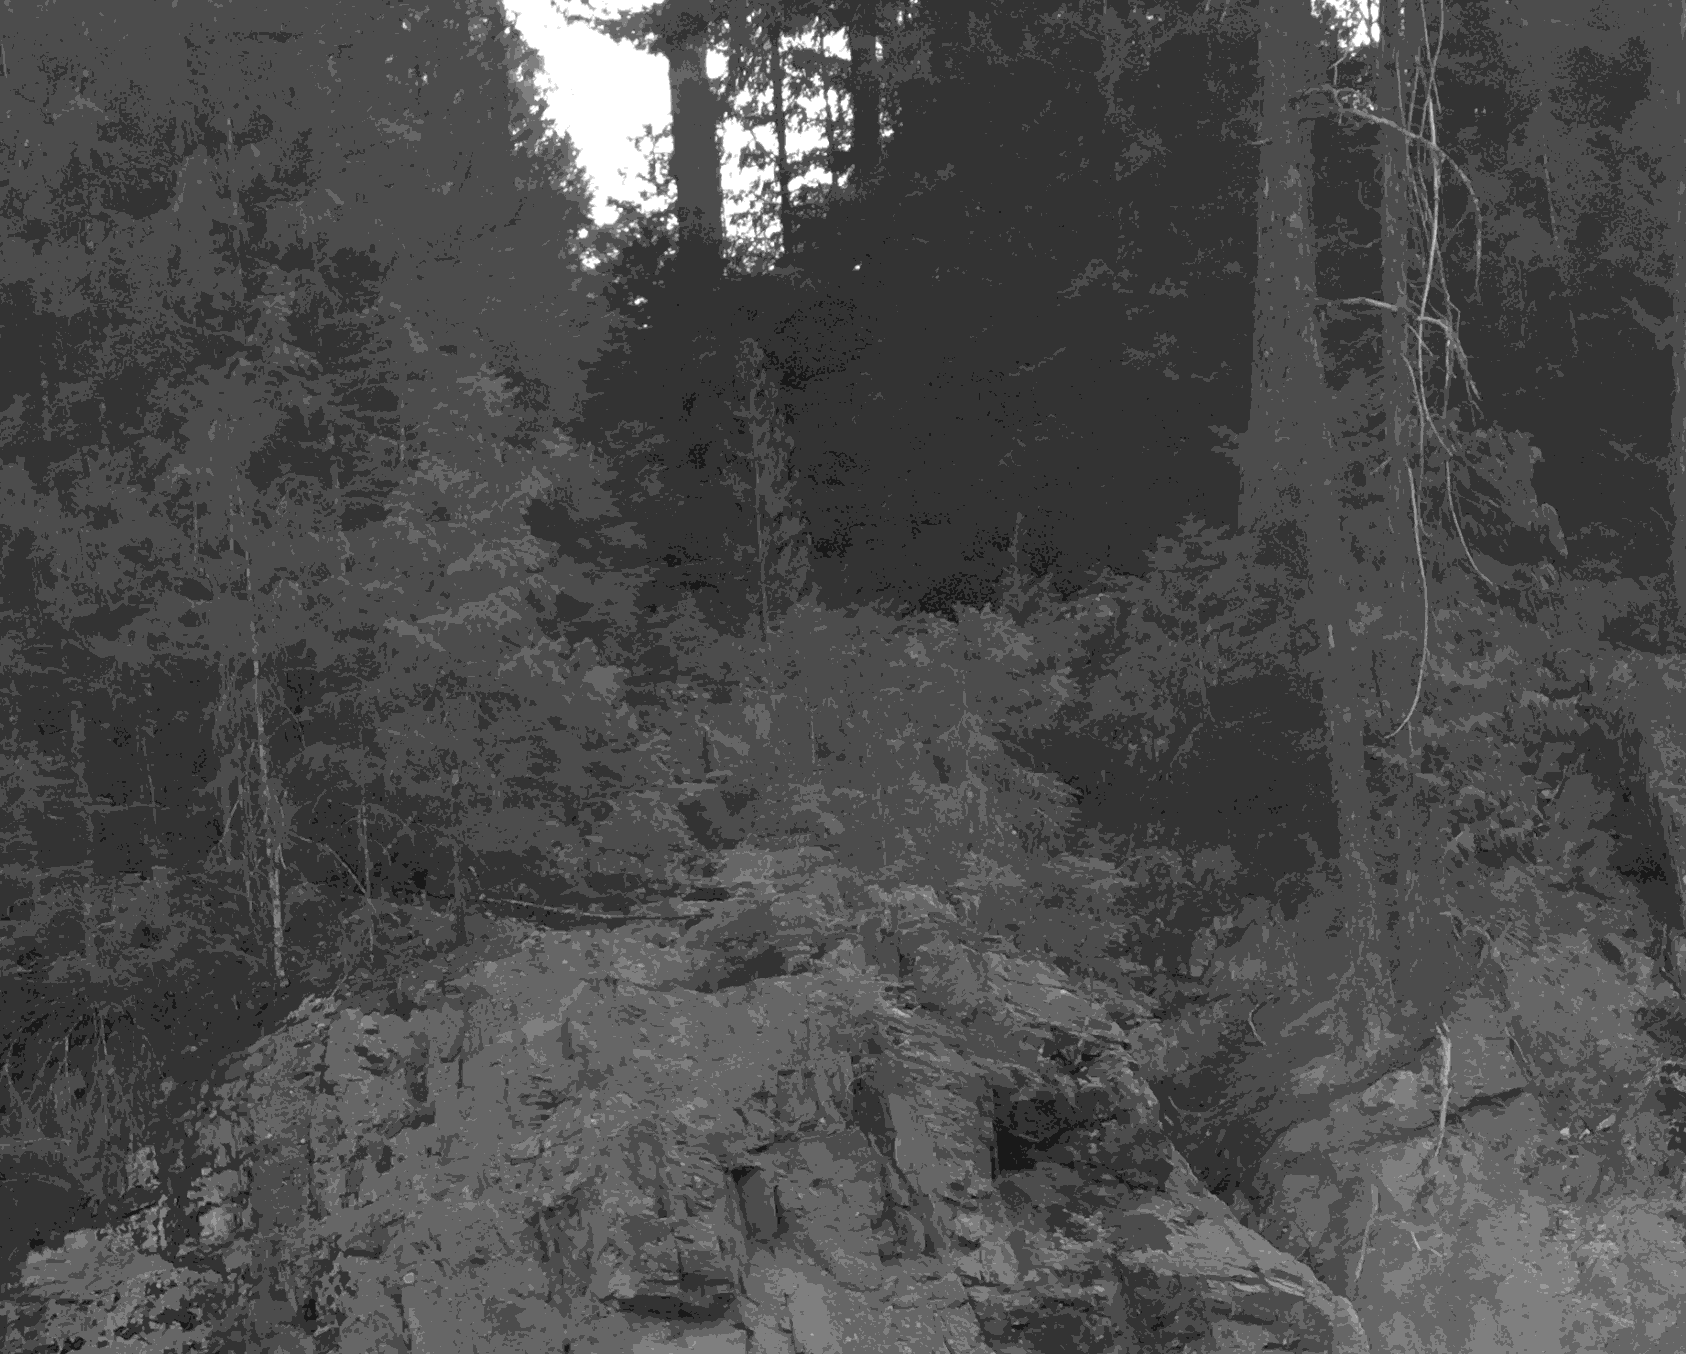
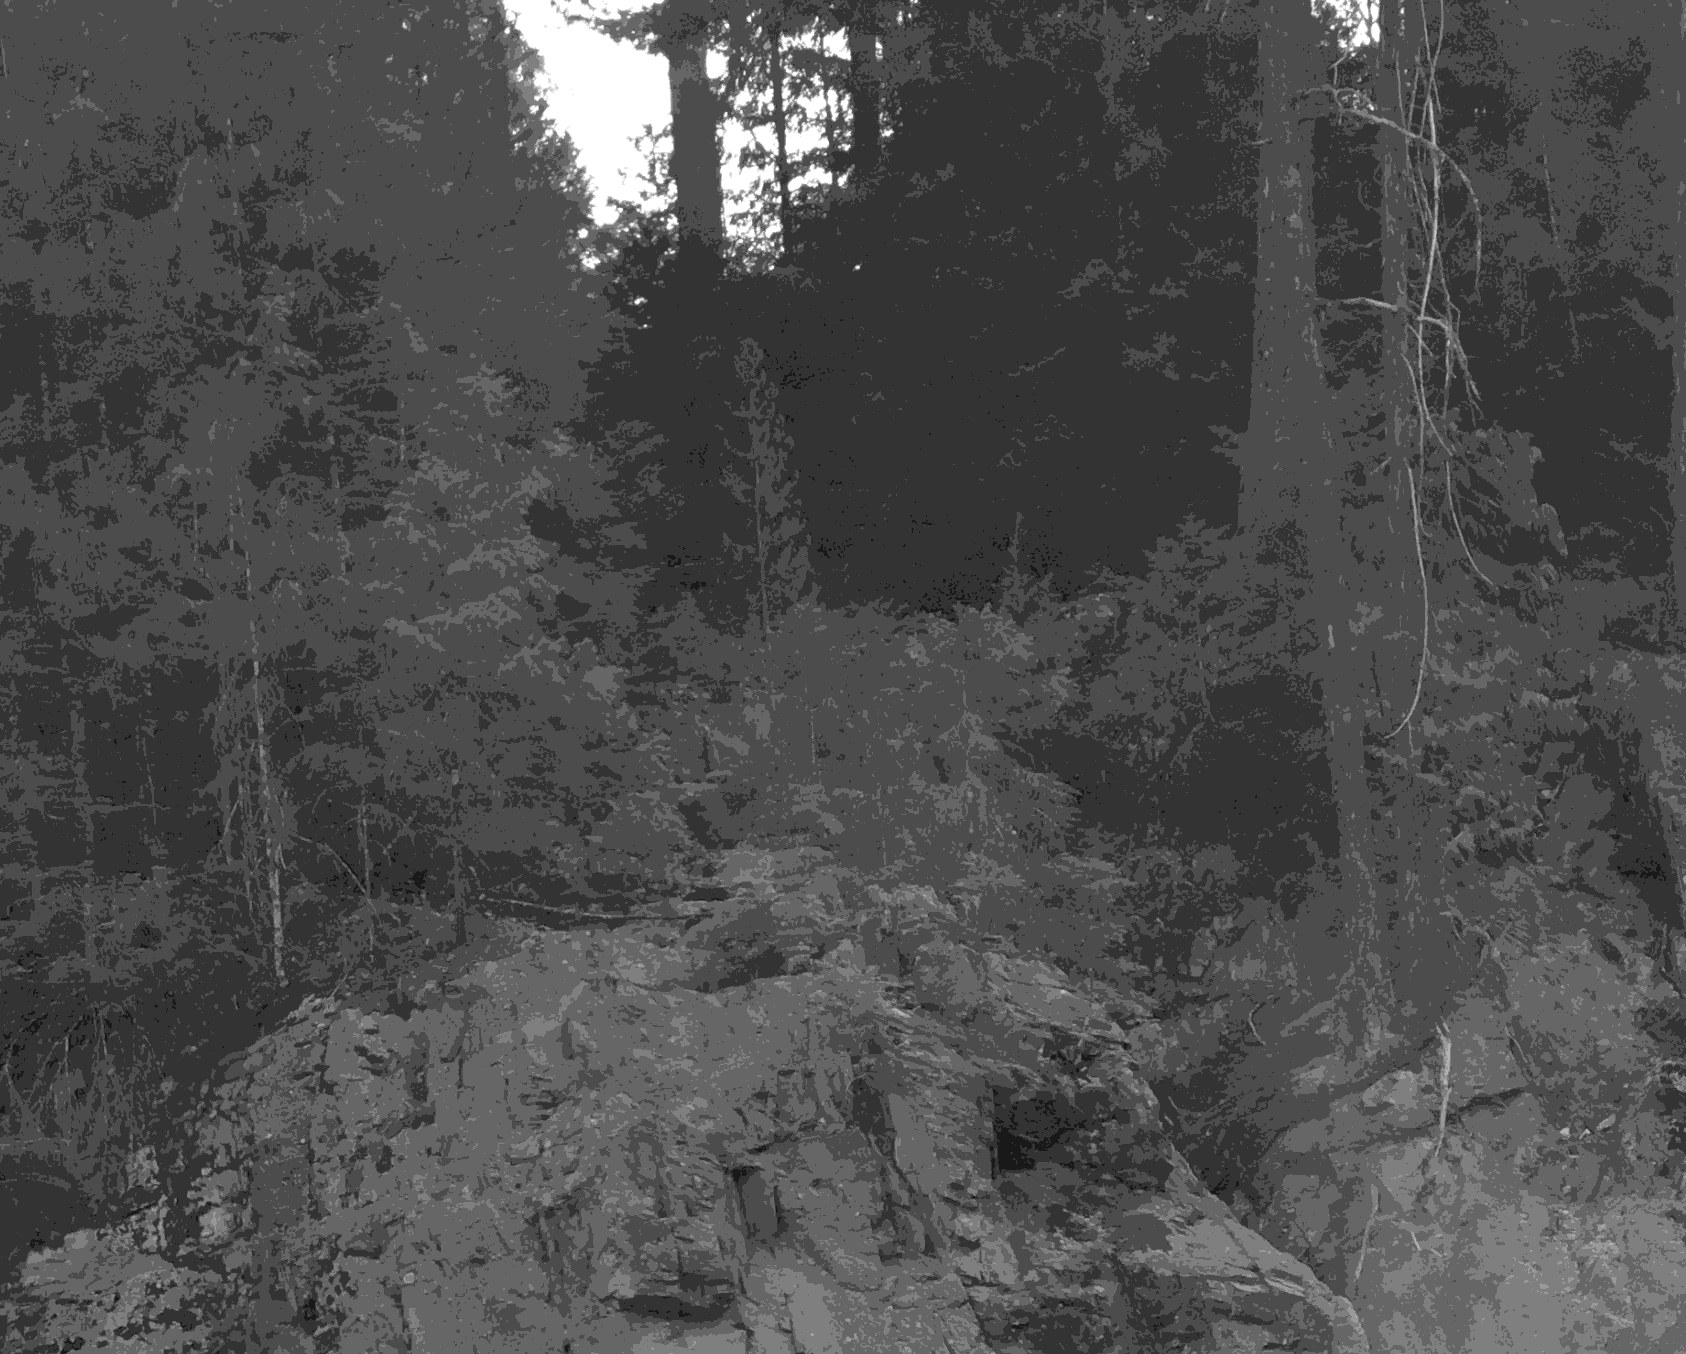
added functionality to convert to paint

diff --git a/img_converter.py b/img_converter.py
@@ -27,9 +27,17 @@ def convert_grey(file):
 
 def convert_paint(file):
     # Converts image to paint and saves result
-    img = cv2.imread(file, 0)
+    img = cv2.imread(file)
     
-    save_image(img, file)
+    # Converts image to BGR as a float
+    bgr = cv2.cvtColor(img, cv2.COLOR_BGR2RGB)
+    bgr = bgr.astype(numpy.float32)/255
+
+    # Quantize and convert back to range 0 to 255 as 8-bits
+    paint = 255*numpy.floor(bgr*shades+0.5)/shades
+    paint = paint.clip(0,255).astype(numpy.uint8)
+
+    save_image(paint, file)
 
     return
 
@@ -37,7 +45,7 @@ def convert_both(file):
     # Converts image to both greyscale and paint and saves result
     img = cv2.imread(file)
     
-    # Convert image to greyscale as a float
+    # Converts image to greyscale as a float
     grey = cv2.cvtColor(img, cv2.COLOR_BGR2GRAY)
     grey = grey.astype(numpy.float32)/255
 
@@ -64,11 +72,12 @@ def main():
         print("Applied greyscale!")
     
     elif conversion_type == 2:
-        print("Applied filter!")
+        convert_paint(file)
+        print("Applied paint filter!")
 
     elif conversion_type == 3:
         convert_both(file)
-        print("Applied both greyscale and filter!")
+        print("Applied both greyscale and paint filter!")
     
     else:
         print("Invalid conversion type - please choose 1, 2, or 3.")
